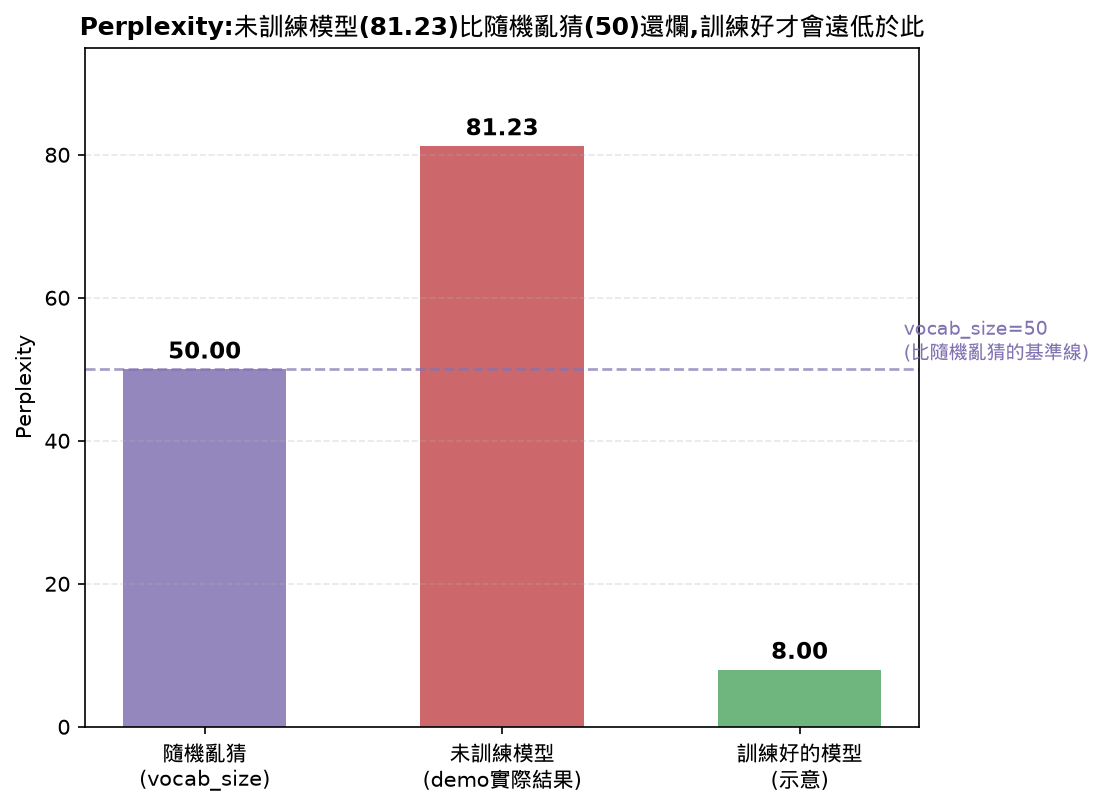
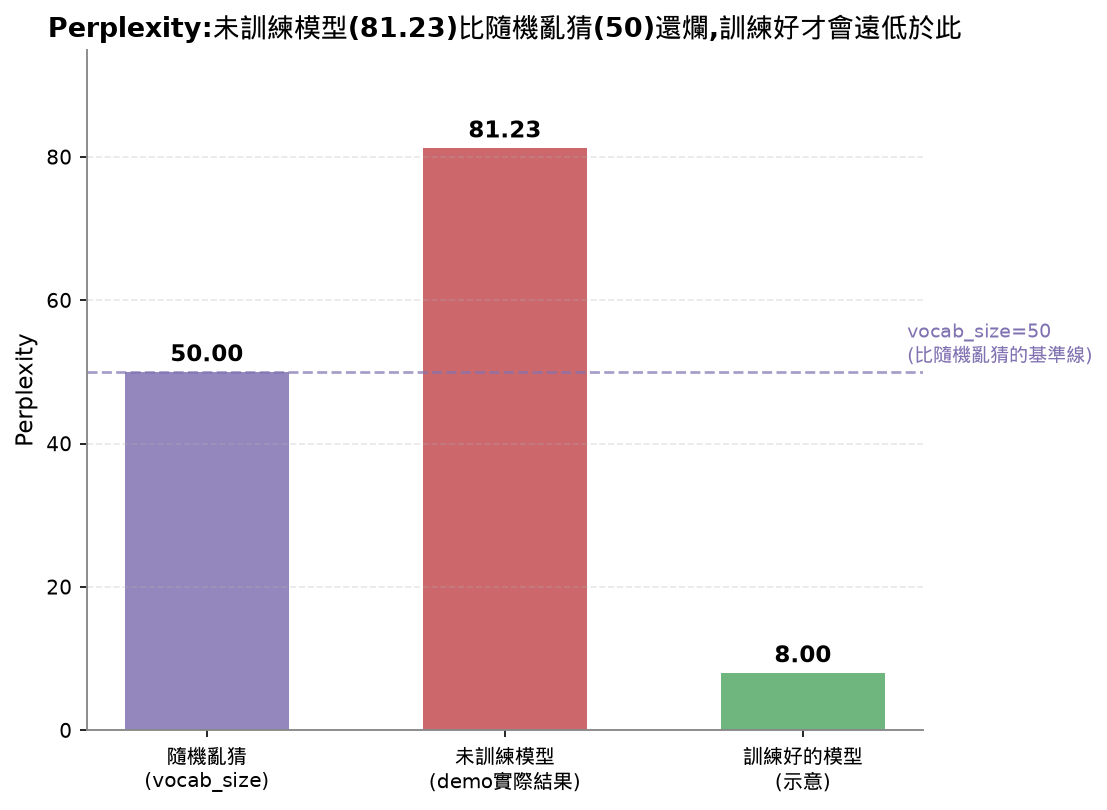
Lesson 9 diagrams: unify visual style
Regenerate with the shared plot style module.

Changed region(s): [[0.0, 0.0, 0.9864, 0.9889], [0.6473, 0.7726, 0.8015, 0.8344], [0.4007, 0.1236, 0.4932, 0.1854]]

diff --git a/01-math-foundations/09-information-theory/images/make_onehot_demo.py b/01-math-foundations/09-information-theory/images/make_onehot_demo.py
@@ -7,9 +7,10 @@ import matplotlib.font_manager as fm
 import matplotlib.pyplot as plt
 import numpy as np
 
-fm.fontManager.addfont("/usr/share/fonts/truetype/droid/DroidSansFallbackFull.ttf")
-matplotlib.rcParams["font.family"] = ["DejaVu Sans", "Droid Sans Fallback"]
-matplotlib.rcParams["axes.unicode_minus"] = False
+import sys
+sys.path.insert(0, "../../_shared")
+from plot_style import setup_style, BLUE, RED, GREEN, PURPLE, GOLD, GRAY
+setup_style()
 
 classes = ["貓", "狗", "鳥", "魚"]
 one_hot = [0, 0, 1, 0]  # 真實類別是"鳥"
@@ -30,11 +31,11 @@ ax = axes[1]
 ax.bar(classes, q, color="#4C72B0", edgecolor="black", alpha=0.8)
 ax.set_ylim(0, 1.2)
 ax.set_ylabel("Q(x) (模型猜的機率)", fontsize=10)
-ax.set_title(f"套公式:只有\"鳥\"那項(p=1)有貢獻\nH(P,Q) = -log({q[2]}) = {-np.log(q[2]):.3f} nats", fontsize=10.5, fontweight="bold")
+ax.set_title(f"套公式:只有\"鳥\"那項(p=1)有貢獻\nH(P,Q) = -log({q[2]}) = {-np.log(q[2]):.3f} nats", fontsize=11.5, fontweight="bold")
 for i, v in enumerate(q):
     ax.text(i, v + 0.05, f"{v}", ha="center", fontsize=9.5)
 
-fig.suptitle("為什麼分類問題的cross-entropy只看正確答案那一項的機率", fontsize=12.5, fontweight="bold")
+fig.suptitle("為什麼分類問題的cross-entropy只看正確答案那一項的機率")
 plt.tight_layout()
 plt.savefig("onehot_encoding.png", dpi=150, bbox_inches="tight")
 print("saved")

diff --git a/01-math-foundations/09-information-theory/images/make_ce_nll_equality_demo.py b/01-math-foundations/09-information-theory/images/make_ce_nll_equality_demo.py
@@ -12,9 +12,10 @@ import sys
 sys.path.insert(0, "..")
 from reference import negative_log_likelihood, softmax  # noqa: E402
 
-fm.fontManager.addfont("/usr/share/fonts/truetype/droid/DroidSansFallbackFull.ttf")
-matplotlib.rcParams["font.family"] = ["DejaVu Sans", "Droid Sans Fallback"]
-matplotlib.rcParams["axes.unicode_minus"] = False
+import sys
+sys.path.insert(0, "../../_shared")
+from plot_style import setup_style, BLUE, RED, GREEN, PURPLE, GOLD, GRAY
+setup_style()
 
 random.seed(42)
 n_samples = 1000
@@ -35,7 +36,7 @@ for b, v in zip(bars, [ce_avg, nll_avg]):
     ax.text(b.get_x() + b.get_width() / 2, v + 0.01, f"{v:.6f}", ha="center", fontsize=10)
 ax.set_ylabel("平均loss (nats)", fontsize=10.5)
 ax.set_ylim(0, max(ce_avg, nll_avg) * 1.3)
-ax.set_title(f"兩條不同來源的公式,算出完全相同的數字\n(1000筆樣本,差異={abs(ce_avg-nll_avg):.2e})", fontsize=11.5, fontweight="bold")
+ax.set_title(f"兩條不同來源的公式,算出完全相同的數字\n(1000筆樣本,差異={abs(ce_avg-nll_avg):.2e})")
 
 plt.tight_layout()
 plt.savefig("ce_nll_equality.png", dpi=150, bbox_inches="tight")

diff --git a/01-math-foundations/09-information-theory/images/make_perplexity_demo.py b/01-math-foundations/09-information-theory/images/make_perplexity_demo.py
@@ -7,9 +7,10 @@ import matplotlib.font_manager as fm
 import matplotlib.pyplot as plt
 import numpy as np
 
-fm.fontManager.addfont("/usr/share/fonts/truetype/droid/DroidSansFallbackFull.ttf")
-matplotlib.rcParams["font.family"] = ["DejaVu Sans", "Droid Sans Fallback"]
-matplotlib.rcParams["axes.unicode_minus"] = False
+import sys
+sys.path.insert(0, "../../_shared")
+from plot_style import setup_style, BLUE, RED, GREEN, PURPLE, GOLD, GRAY
+setup_style()
 
 vocab_size = 50
 random_model_perplexity = 81.23   # 課堂demo實際跑出來的數字(未訓練模型)
@@ -29,7 +30,7 @@ ax.text(2.35, vocab_size + 1.5, "vocab_size=50\n(比隨機亂猜的基準線)", 
 
 ax.set_ylabel("Perplexity")
 ax.set_ylim(0, 95)
-ax.set_title("Perplexity:未訓練模型(81.23)比隨機亂猜(50)還爛,訓練好才會遠低於此", fontsize=12, fontweight="bold")
+ax.set_title("Perplexity:未訓練模型(81.23)比隨機亂猜(50)還爛,訓練好才會遠低於此")
 ax.grid(alpha=0.3, linestyle="--", axis="y")
 
 plt.tight_layout()

diff --git a/01-math-foundations/09-information-theory/images/make_information_content_demo.py b/01-math-foundations/09-information-theory/images/make_information_content_demo.py
@@ -6,9 +6,10 @@ import matplotlib
 import matplotlib.font_manager as fm
 import matplotlib.pyplot as plt
 
-fm.fontManager.addfont("/usr/share/fonts/truetype/droid/DroidSansFallbackFull.ttf")
-matplotlib.rcParams["font.family"] = ["DejaVu Sans", "Droid Sans Fallback"]
-matplotlib.rcParams["axes.unicode_minus"] = False
+import sys
+sys.path.insert(0, "../../_shared")
+from plot_style import setup_style, BLUE, RED, GREEN, PURPLE, GOLD, GRAY
+setup_style()
 
 sys.path.insert(0, "..")
 from reference import information_content
@@ -29,7 +30,7 @@ for b, v in zip(bars, values):
     ax.text(b.get_x() + b.get_width() / 2, v + 0.2, f"{v:.2f} bits", ha="center", fontsize=10.5, fontweight="bold")
 
 ax.set_ylabel("驚訝程度 I(x) = -log2(p)  (bits)")
-ax.set_title("Information Content:機率越低,驚訝程度(資訊量)越大", fontsize=13, fontweight="bold")
+ax.set_title("Information Content:機率越低,驚訝程度(資訊量)越大")
 ax.set_ylim(0, 11)
 ax.grid(alpha=0.3, linestyle="--", axis="y")
 

diff --git a/01-math-foundations/09-information-theory/images/make_kl_divergence_demo.py b/01-math-foundations/09-information-theory/images/make_kl_divergence_demo.py
@@ -7,9 +7,10 @@ import matplotlib
 import matplotlib.font_manager as fm
 import matplotlib.pyplot as plt
 
-fm.fontManager.addfont("/usr/share/fonts/truetype/droid/DroidSansFallbackFull.ttf")
-matplotlib.rcParams["font.family"] = ["DejaVu Sans", "Droid Sans Fallback"]
-matplotlib.rcParams["axes.unicode_minus"] = False
+import sys
+sys.path.insert(0, "../../_shared")
+from plot_style import setup_style, BLUE, RED, GREEN, PURPLE, GOLD, GRAY
+setup_style()
 
 sys.path.insert(0, "..")
 from reference import entropy, cross_entropy, kl_divergence
@@ -36,7 +37,7 @@ ax.text(1, h_cross + 0.05, f"{h_cross:.4f}", ha="center", fontsize=10.5, fontwei
 ax.set_ylabel("bits")
 ax.set_xlim(-0.6, 2.4)
 ax.set_ylim(0, max(h_cross, h_true) + 0.3)
-ax.set_title("KL Divergence = H(P,Q) - H(P):用Q取代P多浪費的bit數", fontsize=12.5, fontweight="bold")
+ax.set_title("KL Divergence = H(P,Q) - H(P):用Q取代P多浪費的bit數")
 ax.grid(alpha=0.3, linestyle="--", axis="y")
 
 plt.tight_layout()
